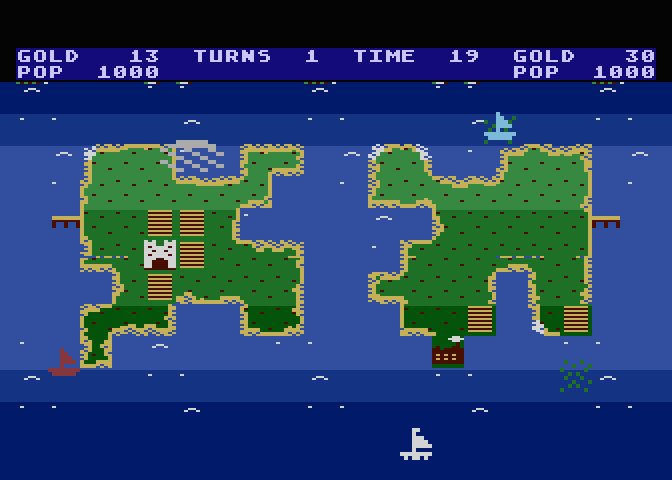
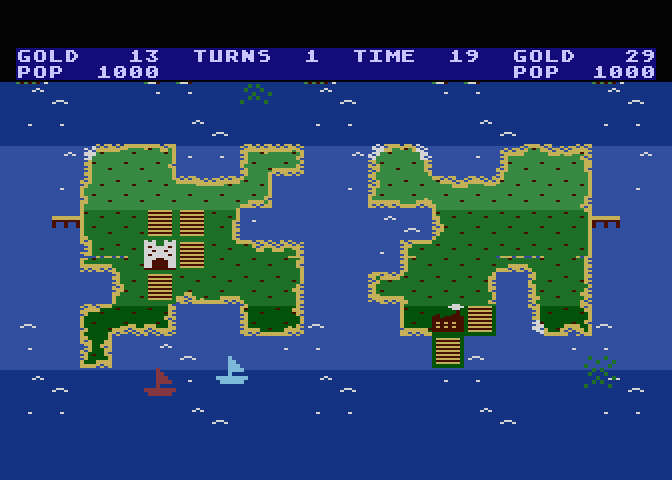
T-GFX-1: two sea blues only, no darker band at the edges (D51)
The top and bottom four character rows now keep the base sea colour;
only the middle rows round the islands are lighter.

Claude-Session: https://claude.ai/code/session_01NMPWAVXJ2tYSHzLSNAaSfH

diff --git a/docs/DECISIONS.md b/docs/DECISIONS.md
@@ -56,4 +56,4 @@ change one, add a new entry that supersedes it; don't edit history.
 | D48 | 2026-10-28 | Attract mode (screen burn-in protection) works again. `INPUT_POLL` zeroes the OS `ATRACT` counter only when a stick, fire, console key or key is down (or held); the VBI no longer zeroes it every frame. The map colours, which the DLI loads from `MAPPAL`, get the OS treatment too: `VBI_D` makes `MAPCOL` = (`MAPPAL` EOR `COLRSH`) AND `DRKMSK` each frame and the DLI reads that. So after about 9 minutes with nothing touched (pause, idle play, title or demo) the OS dims and cycles every playfield colour, and the first input brings them back. Sprite colours the DLI sets (weather, pirates, fish) are not attracted. Status numbers are built in a buffer and each screen byte written once, so blank leading digits no longer flash 0. | Rube found burn-in protection disabled and the empty digits of GOLD etc. flickering zeroes (2026-10-28). The OS VBI already counts and sets `COLRSH`/`DRKMSK`; reusing it costs a few bytes. The 5200 port has no OS attract and will need its own idle timer. |
 | D49 | 2026-10-28 | Keypad controller (T-CTL-2). The setup screen has a fifth line, KEYPAD IN PORT 2 (NO / YES, 0-1; 1 player only, skipped and shown as "-" with 2, like CPU LEVEL). With YES, a 1-player game reads an Atari keypad controller (CX21 Video Touch Pad / CX50, 12 keys) in port 2: 0-9 buy items as the number keys do, * pauses, # shows help. The stick in port 1 still moves the cursor and the keyboard still works. `GAME_START` turns the keypad on (port 2's PORTA lines become outputs, one per row) and `SETUP_ENTER` turns it off. One row is read per frame: its line goes low, `POTGO`, about 8 scan lines' wait on `VCOUNT`, then the left and middle columns from `ALLPOT` (pots 2 and 3) and the right one from `TRIG1`; a key counts after a full 4-row scan, once per press. A row with more than one column down counts as nothing, so an empty port (pots never charge) gives no keys. Unverified on hardware: which pot is the left column, and whether 8 lines is long enough; atari800 does not emulate the controller. | Rube's request (2026-10-28): the keypad as Star Raiders used it, single player only, 800XL first. The XL has 2 ports and a port with a keypad cannot read a stick, so 2 players stay on the keyboard (a 400/800 could later use ports 3 and 4). One row per frame costs ~8 lines of CPU and no WSYNC, so the map DLIs keep their timing. |
 | D50 | 2026-10-30 | The map moves from ANTIC mode 5 to mode 4 (T-GFX-1): a square is 2 × 2 mode 4 characters, 8 × 16 pixels, the same 8 colour clocks × 16 scan lines on screen, so sprites, the grid and the game logic are unchanged. The coast is drawn at 160 × 176 (the eroded bitmap doubled and smoothed): sand along the shore, textured grass, surf in the land squares' water; the open sea has two wave tiles scattered over it. New item art: a white stone fort, golden crop rows over red-brown soil, a house with a red tile roof and white walls, a white school with a red roof, a white hospital, a red-brick factory with white smoke. Palette: sea `$94`, grass `$C6`, brick red `$32` (was black; the one warm colour against the blue and green, also the grass's flower specks and the hulls), sand `$2C` (was yellow `$1C`), white `$0E`; the title logo follows it. A DLI at the end of every character row switches fonts (21 DLIs instead of 10); the sprite positions still change once per square row. The coast fits in the same 2 fonts; fonts beyond that would go to `$8800-$9BFF`. The help screen stays in mode 5 with hand-drawn 8 × 8 icons in the same style, and moves to `$4400` to make room for the bigger map screen. | Rube chose mode 4 after the mock-ups (2026-10-30), prompted by a tester who found the graphics weak. Twice the vertical detail per square, a fifth colour per character instead of per tile, and the same square size on screen made it the step up that keeps everything else. |
-| D51 | 2026-10-30 | The map gets per-row shading and moving waves (T-GFX-1). Shading: each character row has its own sea (COLBK) and grass (PF0) colour, set by `DLI_ROW` with the font: the open sea is 2 luminance steps darker in the top and bottom two rows and 2 lighter round the islands (rows 4-17), the grass 2 lighter in the north (rows 0-7) and 2 darker in the south (rows 14-21), from `SEADEL` / `GRNDEL`. `VD_SHADE` builds `ROWBK` / `ROWPF0` from `MAPPAL` with attract mode applied, and the deferred VBI reruns it only when `MAPPAL`, `COLRSH` or `DRKMSK` change. Waves: each wave tile has one crest, on 2 of every 9 open-sea squares (Rube found two crests on 3 in 9 too busy), and 2 in 9 get a sparkle tile instead, two white dots that twinkle in turn. The 5 animated characters get 4 phases (the crest rolls right, breaks, then a frame of calm sea); `WAVE_ANI` (main loop, during play) copies the next phase into both map fonts every 16 frames, the second wave tile lagging 2 phases. The frames (`WVDATA`, 160 bytes) fill the rest of the help font's block at `$4ED8`; the routines are in `shade.asm` in the second code block. | Rube's list after D50 (2026-10-30): colour per row and animation were the two items left from the mock-up. Per-row colour costs only two stores in a DLI that already runs; font-copy animation costs 80 bytes of copying every 16 frames and no extra characters. |
+| D51 | 2026-10-30 | The map gets per-row shading and moving waves (T-GFX-1). Shading: each character row has its own sea (COLBK) and grass (PF0) colour, set by `DLI_ROW` with the font: the open sea is 2 luminance steps lighter round the islands (rows 4-17) and stays `MAPPAL`'s blue in the top and bottom four rows (a darker band at the edges was dropped as too heavy), the grass 2 lighter in the north (rows 0-7) and 2 darker in the south (rows 14-21), from `SEADEL` / `GRNDEL`. `VD_SHADE` builds `ROWBK` / `ROWPF0` from `MAPPAL` with attract mode applied, and the deferred VBI reruns it only when `MAPPAL`, `COLRSH` or `DRKMSK` change. Waves: each wave tile has one crest, on 2 of every 9 open-sea squares (Rube found two crests on 3 in 9 too busy), and 2 in 9 get a sparkle tile instead, two white dots that twinkle in turn. The 5 animated characters get 4 phases (the crest rolls right, breaks, then a frame of calm sea); `WAVE_ANI` (main loop, during play) copies the next phase into both map fonts every 16 frames, the second wave tile lagging 2 phases. The frames (`WVDATA`, 160 bytes) fill the rest of the help font's block at `$4ED8`; the routines are in `shade.asm` in the second code block. | Rube's list after D50 (2026-10-30): colour per row and animation were the two items left from the mock-up. Per-row colour costs only two stores in a DLI that already runs; font-copy animation costs 80 bytes of copying every 16 frames and no extra characters. |
